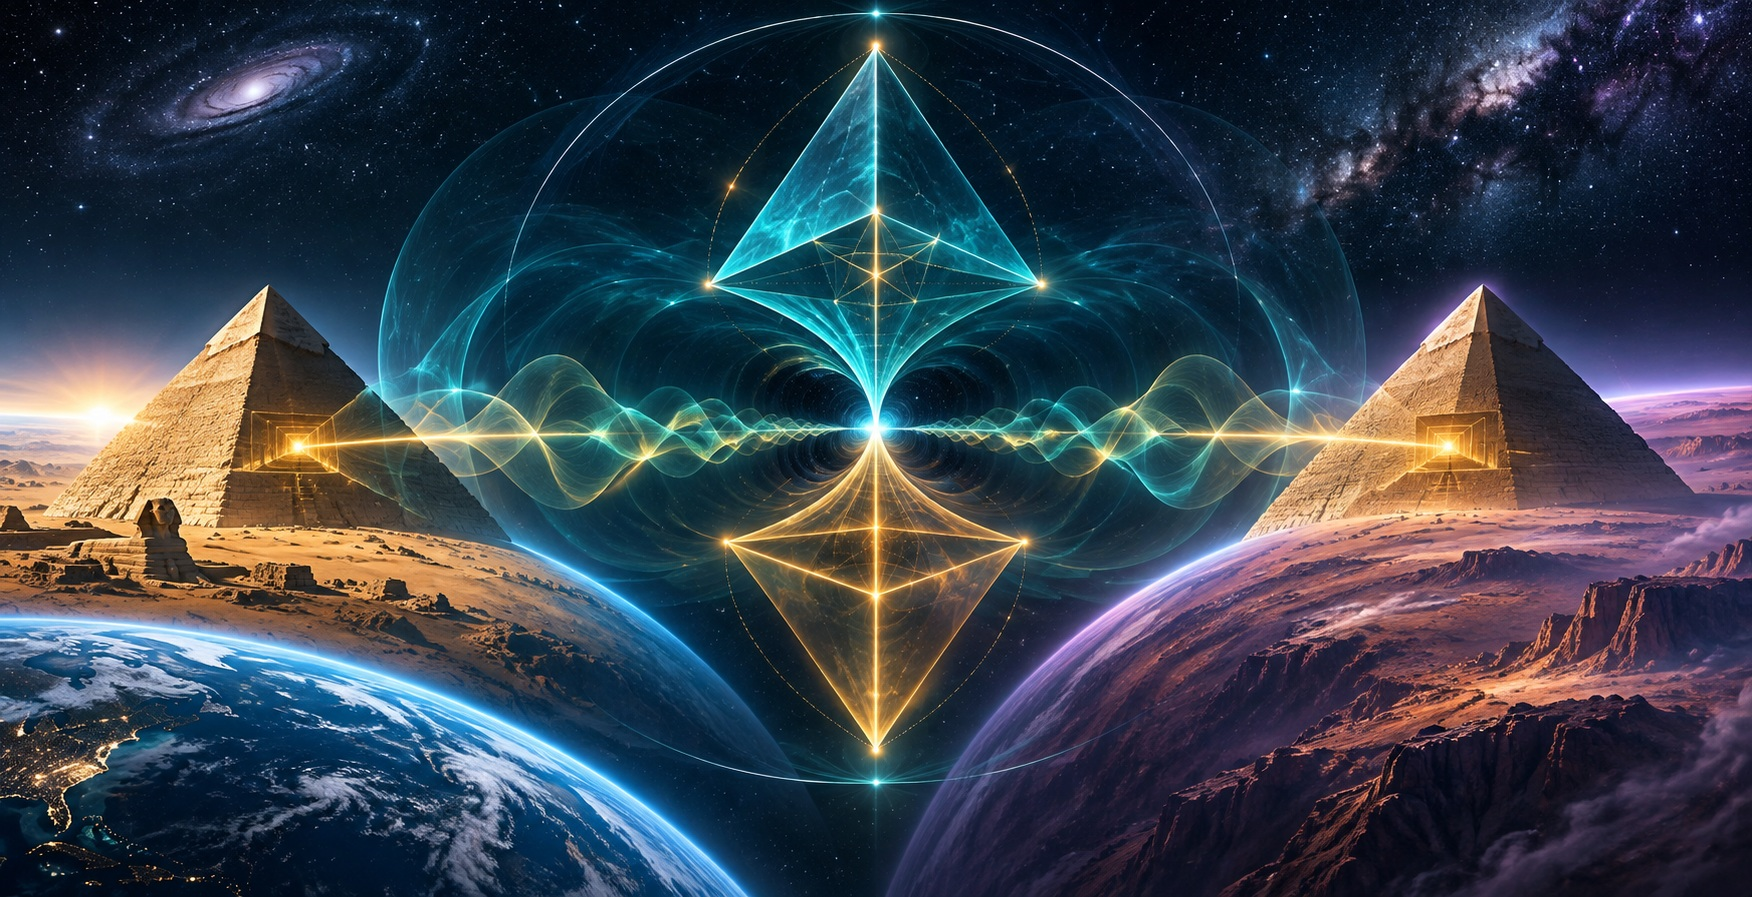
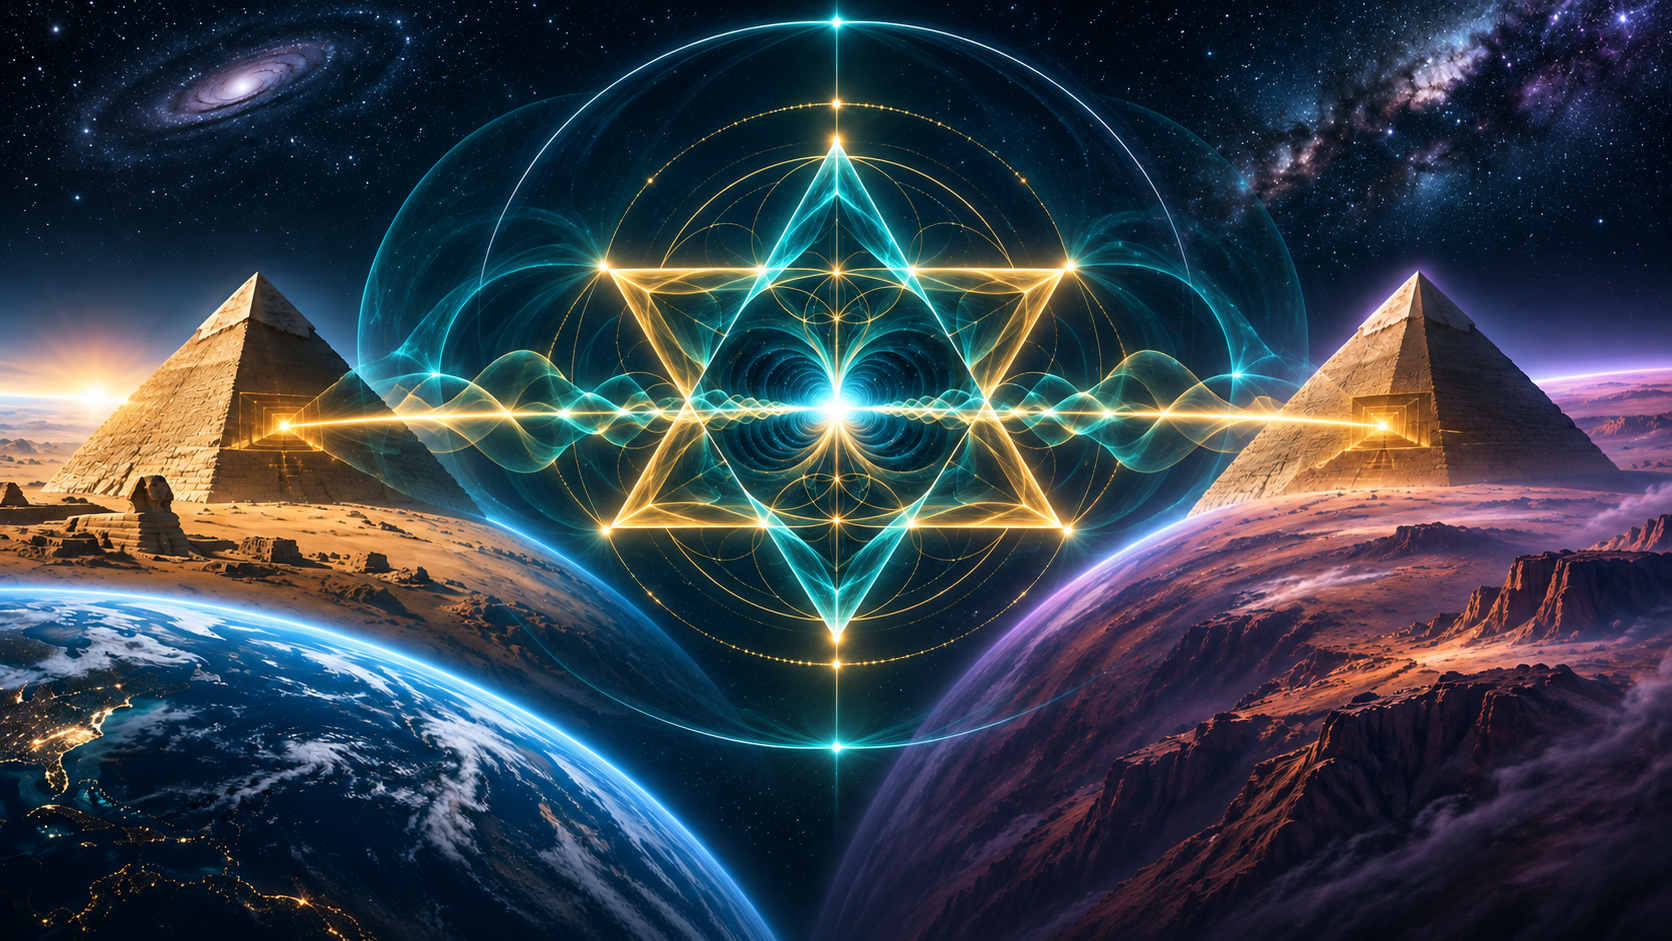
Great Pyramid: reviewed Stargate README and visuals; remove parity-pushout diagram
Claude-Session: https://claude.ai/code/session_01QVSafhrLn4oM7Z9HHHP6Kg

diff --git a/research/exploratory/great-pyramid/README.md b/research/exploratory/great-pyramid/README.md
@@ -4,9 +4,9 @@
 
 *Gravity Field Dynamics (GFD) · Exploratory research programme*
 
-![Concept illustration of two matched pyramids on distant worlds](diagrams/stargate-worlds.jpg)
+![Two pyramids on distant worlds joined by a luminous hexagram representing the proposed dual-tetrad interface](diagrams/stargate-worlds.jpg)
 
-*Concept illustration — not an observation of another pyramid or an established transport channel. Each world has its own local dual-tetrad closure; the proposed link is through the TetB sector.*
+*Concept artwork — the central Star of David represents two complementary tetrahedral sectors projected onto a common plane. The two pyramids are hypothetical address partners, each with its own local Field Origin; the luminous connection represents the proposed TetB link, not an observed transport channel.*
 
 > “The design of the level of the King's Chamber was the halving of the vertical area of the Pyramid.”  
 > — W. M. Flinders Petrie, *The Pyramids and Temples of Gizeh* (1883), §148
@@ -60,9 +60,11 @@ The scalar sector of the GFD action gives the closure current
 
 $$\mathbf J=\frac{\mu(|\nabla\Phi|/a_0)\nabla\Phi}{4\pi G}.$$
 
-For the source-free driven component, the divergence theorem gives
+For a source-free driven component, the divergence theorem gives
 
 $$\Phi_{\rm base}=\Phi_{\rm axial}(z)+\Phi_{\rm lateral}(0,z).$$
+
+Here the base flux is counted inward and the lateral and axial fluxes outward. For the full current with $\nabla\cdot\mathbf J=\rho$, the right-hand side must additionally subtract the enclosed source integral $\int_{V_z}\rho\,dV$. The source-free identity therefore applies to the background component, not indiscriminately to the pyramid’s self-gravity.
 
 The bounded-closure model identifies the axial and lateral shares with the two closure sectors. When the axial current density is approximately uniform,
 
@@ -70,7 +72,7 @@ $$\mu_B(z)=\frac{\Phi_{\rm axial}(z)}{\Phi_{\rm base}}\simeq\frac{A(z)}{A_0}.$$
 
 Phase 0 includes the Earth's gravitational background, its gradient and the pyramid's self-gravity in its closure-current calculation. It reports axial uniformity at roughly $5\times10^{-5}$, sufficient for the half-area approximation.
 
-A useful distinction: the gravitational current locates the proposed structural Field Origin, whereas the modelled atmospheric electric flux balances around 61 m, approximately 18 m higher. The field that locates the chamber is not necessarily the field that would energise it.
+A useful distinction: the modelled gravitational current locates the proposed structural Field Origin, whereas the modelled atmospheric electric flux balances around 61 m, approximately 18 m higher. The field that locates the chamber is not necessarily the field that would energise it.
 
 **The remaining theoretical bridge:** the structural flux fraction $\mu_B$ is not automatically the local constitutive response $\mu(g/a_0)$. The sector identification must be derived dynamically if the geometrical plane is to be understood as a physical TetA/TetB exchange point rather than only a flux-balance surface.
 
@@ -110,7 +112,7 @@ has even dimension $K^2+1$, odd dimension $K$, total dimension $K^2+K+1$ and sup
 
 ### The physical signatures: 17 is the neutral Field Origin
 
-The primary dual-tetrad interpretation is the graded operator of [01.3](pyramid_portal_research/01_framework_foundations/01.3_graded_identity_operator.md), not a Venn diagram of two equal chambers. Let $P_0,P_1,P_2$ be the orthogonal projectors onto the respective $1,K,K^2$ components of $\mathcal T_K$. Write
+The primary dual-tetrad interpretation is the signed graded operator of [01.3](pyramid_portal_research/01_framework_foundations/01.3_graded_identity_operator.md). Let $P_0,P_1,P_2$ be the orthogonal projectors onto the respective $1,K,K^2$ components of $\mathcal T_K$. Write
 
 $$P_{\rm even}=P_0+P_2,\qquad P_{\rm odd}=P_1,\qquad J=P_{\rm even}-P_{\rm odd}.$$
 
@@ -140,65 +142,40 @@ For any $\alpha>0$, $\det(\alpha^{\mathbb I_s})=\exp(\log\alpha\,\operatorname{T
 
 For the pyramid, this places the King's Chamber, at the proposed half-flux plane, at the **neutral signature 17**. The reported 0.82-inch geometrical residual tests the plane's location; it does not independently measure the coupling signature or establish a physical parity filter.
 
-### A separate construction: recursive register growth
+Read: [Closure-read representation](pyramid_portal_research/01_framework_foundations/01.2_closure_read_representation.md) · [Graded identity](pyramid_portal_research/01_framework_foundations/01.3_graded_identity_operator.md).
 
-The **parity pushout** of Active Work 14 gives another realization of the same three integers. Construct two abstract sheets $A_K,B_K$ with a common core of size $C_K$ and $K$ exclusive elements each. These sheets are combinatorial bookkeeping objects, not the physical TetA and TetB coupling signatures:
+## 4. The hinge: a completed read meets the next shell
 
-$$|A_K|=|B_K|=E_K,\qquad |A_K\cup B_K|=U_K.$$
+The same signed coupling law extends to the adjacent shell. Its three values are always centred on the neutral character $K^2+1$, with equal offsets $\pm K$. In particular,
 
-![Abstract parity pushout: two 17-element sheets with a 13-element intersection and a 21-element union](diagrams/parity-pushout.svg)
+$$\begin{aligned}
+K=4:&\quad 13\ \xrightarrow{+4}\ 17\ \xrightarrow{+4}\ 21,\\
+K=5:&\quad 21\ \xrightarrow{+5}\ 26\ \xrightarrow{+5}\ 31.
+\end{aligned}$$
 
-An explicit register realization makes the construction tangible. The shared core consists of a distinguished closure element and the $K(K-1)$ directed off-diagonal interactions of $K$ labelled frame vertices. Add two $K$-element sets of incoming and outgoing channels.
+The upper signature at one level equals the lower signature at the next:
 
-| Register at K=4 | Count |
-|---|---:|
-| Distinguished closure / orientation element | 1 |
-| Ordered off-diagonal frame interactions | 12 |
-| First exclusive register | 4 |
-| Second exclusive register | 4 |
-| **Complete closure register** | **21** |
+$$\boxed{f(K,+1)=K^2+K+1=f(K+1,-1).}$$
 
-This is a combinatorial realization of the pushout, not yet a unique physical identification of every channel. Neither 17-element sheet is to be identified with a physical tetrad, and the 13-element shared core is not the neutral Field Origin. In particular, the 13-dimensional overlap in this realization must not be confused with the 13-valued supertrace of the graded representation: their numerical equality is exact, while a dynamical correspondence requires a map.
-
-Together these constructions motivate the interpretation that the coupling polynomial describes not only a coupling strength, but the **organization of information being registered, reconciled and settled during closure**. The signed operator governs the three coupling signatures; the pushout models how a register can grow between levels. Their numerical agreement does not identify their operators.
-
-Read: [Closure-read representation](pyramid_portal_research/01_framework_foundations/01.2_closure_read_representation.md) · [Graded identity](pyramid_portal_research/01_framework_foundations/01.3_graded_identity_operator.md) · [Parity-pushout recursion](pyramid_portal_research/active_work/14_parity_pushout_recursion.md) · [Engineering synthesis](pyramid_portal_research/99_appendices/I_coupling_polynomial_engineering_synthesis.md).
-
-## 4. The hinge: when one closure becomes the next shared core
-
-The adjacent-shell identity is exact for every integer $K$:
-
-$$\boxed{\Phi_3(K)=\Phi_6(K+1)}.$$
-
-The following table refers to the **abstract pushout cardinalities**, not physical chamber dimensions.
-
-| Shell | Shared core | Each abstract sheet | Complete union |
+| Shell | Negative signature | Neutral signature | Positive signature |
 |---|---:|---:|---:|
-| K=1 | 1 | 2 | 3 |
-| K=2 | 3 | 5 | 7 |
-| K=3 | 7 | 10 | 13 |
-| **K=4** | **13** | **17** | **21** |
-| **K=5** | **21** | **26** | **31** |
+| $K=1$ | 1 | 2 | 3 |
+| $K=2$ | 3 | 5 | 7 |
+| $K=3$ | 7 | 10 | 13 |
+| **$K=4$** | **13 (TetB)** | **17 (Field Origin)** | **21 (TetA)** |
+| **$K=5$** | **21** | **26** | **31** |
 
-![The K=4 to K=5 closure hinge](diagrams/closure-hinge.svg)
+![Signed coupling ladder: the positive K=4 signature and negative K=5 signature match at 21](diagrams/closure-hinge.svg)
 
-There is a constructive explanation. Four vertices have 12 directed edges. Adding a fifth vertex contributes exactly four incoming and four outgoing edges. Including the distinguished element gives
+The equality gives a natural candidate for an interlevel interface without changing the local Field Origin's neutral signature. **The local interface is 17; the interlevel matching label is 21.** These are different roles. In particular, the 21 of the next shell's negative signature is not the Field Origin of the original K=4 structure.
 
-$$1+4(4-1)+4+4=1+5(5-1)=21.$$
-
-Equivalently, the next shared core is the previous union:
-
-$$C_{K+1}=A_K\cup_{C_K}B_K,\qquad |C_{K+1}|=|C_K|+2K.$$
-
-This is a model of **hierarchical registration**. Previously exclusive content becomes part of a shared register at the next level. It offers a possible algebraic basis for recursive settlement without recounting every microscopic constituent of a larger structure.
-
-The portal research formalizes the $K=4\rightarrow5$ hinge as the partial isometry
+The portal research represents the adjacent-shell match by a partial isometry
 
 $$J_4=|5,-\rangle\langle4,+|,\qquad H_5J_4=J_4H_4=21J_4,$$
 
-where the shell operators have the chosen cyclotomic eigenvalues. This is an exact intertwining relation in that abstract model. The equality is dimensionless; it does not determine a physical transition frequency or prove that the two shells couple in nature.
+where the dimensionless shell operators have the assigned cyclotomic eigenvalues. The intertwining equation follows directly from those eigenvalues. It establishes a consistent algebraic matching condition, not the existence of a physical transition. An interaction Hamiltonian and an energy scale must be derived separately.
 
-**The K=5 shell can initially be read as an extended closure register**, with the pentachoron supplying a candidate geometry, rather than an assertion of a fifth physical spatial dimension.
+This is the proposed mathematical bridge between the local dual-tetrad read and an extended closure register. The pentachoron offers a candidate geometry for K=5, but no fifth physical spatial dimension is implied by the identity.
 
 Read: [Shift identity](pyramid_portal_research/01_framework_foundations/01.4_shift_identity_proof.md) · [Interlevel hinge](pyramid_portal_research/03_portal_topology/03.1_K4_to_K5_hinge.md) · [Pentachoron edge network](pyramid_portal_research/03_portal_topology/03.2_pentachoron_edge_network.md).
 
@@ -222,7 +199,7 @@ For each nontrivial cubic phase, $1+\omega+\omega^2=0$. The projector preserves 
 
 $$R(a,b,c)=(a\star b)\star c-a\star(b\star c).$$
 
-The model places its output in the axial invariant sector. Active Work 12 uses the projected associator as a time-dependent complex readout for the proposed cross-sheet order parameter, rather than inserting an arbitrary amplitude.
+Because the outermost product in each term is projected, the associator output belongs to the axial invariant sector. This does not guarantee a nonzero residue on native trajectories. Active Work 12 uses the projected associator as a time-dependent complex readout for the proposed cross-sheet order parameter, rather than inserting an arbitrary amplitude.
 
 ![Walsh–Clifford closure architecture](diagrams/closure-core.svg)
 
@@ -261,13 +238,13 @@ The King's Chamber's idealized cubit proportions are $20:10:5\sqrt5$, yielding t
 
 $$\sqrt{20^2+10^2+(5\sqrt5)^2}=25=5^2.$$
 
-The two equal squares in its floor plan suggest a dual-register geometry. The coffer breaks that symmetry. Petrie's measured exterior coffer volume and floor-to-ceiling chamber volume give a ratio near $1/\alpha$:
+The rectangular floor consists of two equal squares. Whether this geometry participates in a dual-register mechanism is an open engineering question; the off-centre coffer is a candidate localized load. Petrie's measured exterior coffer volume and floor-to-ceiling chamber volume give a ratio near $1/\alpha$:
 
 $$\frac{V_{\rm KC}}{V_{\rm coffer,ext}}\simeq137.17,\qquad\alpha^{-1}\simeq137.036.$$
 
 The difference is approximately 0.10%, but depends on the height convention: the base-of-walls convention gives about 140.2. This correspondence deserves a modern independent measurement rather than a stronger claim of precision. The coffer's interior and stone volumes are also approximately equal (72,000 and 70,500 cubic inches in Petrie's account).
 
-The seven corbels and three grooves suggest a 21-sector phase architecture through the exact group identity
+The seven corbel courses and three portcullis slots suggest a 21-sector phase architecture through the exact group identity
 
 $$\mathbb Z_3\times\mathbb Z_7\cong\mathbb Z_{21}.$$
 
@@ -291,13 +268,13 @@ Here 21 is the full closure character (TetA), 17 the even character (Field Origi
 
 Active Work 17 supplies a potentially deeper connection: it separates the spatial order-three symmetry of the node from the temporal advancement of its closure phase. The π-walk research investigates the ordered read of the stellated-octahedron's spectral state.
 
-The working hypothesis is that standing waves and vortices hold the inventory, while a π-driven traversal schedules its read and settlement. Three sweeps through 13 → 21, each resetting directly to 13, are a candidate schedule. The I Ching computation reports 332 transitions (333 indexed positions including the initial position); it does not show that these transitions implement the Walsh read or divide into three physical sweeps. Indeed, the later hexagram note distinguishes the π traversal from the XOR rotation. The three-snapshot theorem separately requires three independently variable snapshots to span the generic 21-dimensional fixed-trace density register; three copies or three transform passes on the same snapshot do not suffice.
+The working hypothesis is that standing waves and vortices hold the inventory, while a π-driven traversal schedules its read and settlement. Three sweeps through 13 → 21, each resetting directly to 13, are a candidate schedule. The I Ching computation reports 332 transitions (333 indexed positions including the initial position); it does not show that these transitions implement the Walsh read or divide into three physical sweeps. Indeed, the later hexagram note distinguishes the π traversal from the XOR rotation. Under the candidate order-three density pinching, the three-snapshot theorem separately requires three independently variable snapshots to span the generic 21-dimensional fixed-trace density register; three copies or three transform passes on the same snapshot do not suffice.
 
 ![The three-sweep π-walk hypothesis](diagrams/pi-walk.svg)
 
 This suggests a research direction more fundamental than finding an acoustic resonance. The apparatus would have to condition the **phase of the read operation**, not simply reproduce the microscopic traversal rate. A macroscopic acoustic or electromagnetic carrier could only act on that read operation if a definite coupling mechanism and its dimensional scale are derived.
 
-The 333-step proposal should not be confused with the separate 21-channel register or with the group $\mathbb Z_{21}$. Establishing their operator-level relation is precisely the task.
+The 333-position proposal should not be confused with the separate 21-channel register or with the group $\mathbb Z_{21}$. Establishing their operator-level relation is precisely the task.
 
 Read: [Vortex calibration](pyramid_portal_research/active_work/17_vortex_calibration.md) · [Gravity equation](pyramid_portal_research/02_gravity_derivation/02.1_gravity_equation.md) · [I Ching and closure-read explorations](../i-ching/).
 
@@ -337,7 +314,7 @@ Read: [King's Chamber vertex model](pyramid_portal_research/active_work/11_kings
 
 ## 9. Two pyramids, one address: the Stargate hypothesis
 
-Imagine the Great Pyramid at site $x$ on Earth and a mirror-matched resonator at site $y$ on another world. In the proposed architecture, the local TetA interface registers the state, the local Field Origin provides a parity-even coupling point, and the complementary TetB sector mediates a candidate shared address. The destination is not literally the same local TetB tetrahedron relocated to another planet. Each apparatus has its own local dual-tetrad structure. A remote apparatus would be a complementary **address partner**.
+Imagine the Great Pyramid at site $x$ on Earth and a mirror-matched resonator at site $y$ on another world. In the proposed architecture, the local TetA interface registers the state, the local Field Origin (signature 17) provides a candidate parity-even coupling point, and the complementary TetB sector (signature 13 at K=4) is hypothesized to mediate the address link. The destination is not literally the same local TetB tetrahedron relocated to another planet. Each apparatus has its own local dual-tetrad structure. A remote apparatus would be a complementary **address partner**.
 
 ![Source and receiver: local interfaces and proposed shared TetB channel](diagrams/mirror-transfer.svg)
 
@@ -425,11 +402,11 @@ The programme deliberately separates mathematical identities, surveyed geometry,
 |---|---|
 | Graded character and cyclotomic identities | Exact in the defined representations |
 | Graded coupling signatures: TetA 21, Field Origin 17, TetB 13 | Exact trace and projection identities in the graded representation |
-| Parity-pushout recursion and 21-channel extension | Separate explicit combinatorial construction; not physical chamber sizes |
+| Adjacent-shell matching at 21 | Exact cyclotomic identity; physical transition not derived |
 | Three-phase projector and registration/coherence distinction | Exact mathematical statements |
 | King's Chamber half-area position | Survey-based geometric correspondence |
 | Phase 0 half-flux plane within 0.82 in of floor | Reported numerical model result, conditional on the sector identification |
-| Coffer volume ratio near $\alpha$ | Approximate measured correspondence; height-convention sensitive |
+| Coffer volume ratio near $\alpha^{-1}$ | Approximate measured correspondence; height-convention sensitive |
 | Classical resonant response | Supported by electromagnetic modelling; specific phase architecture unverified |
 | Chamber's 21-mode / 14-active / 7-suppressed selection | Unverified; requires independent spectral predictions and measurements |
 | Five relieving chamber volumes proportional to $5\alpha V_{\rm KC}$ | Existing prediction failed by roughly a factor of ten |
